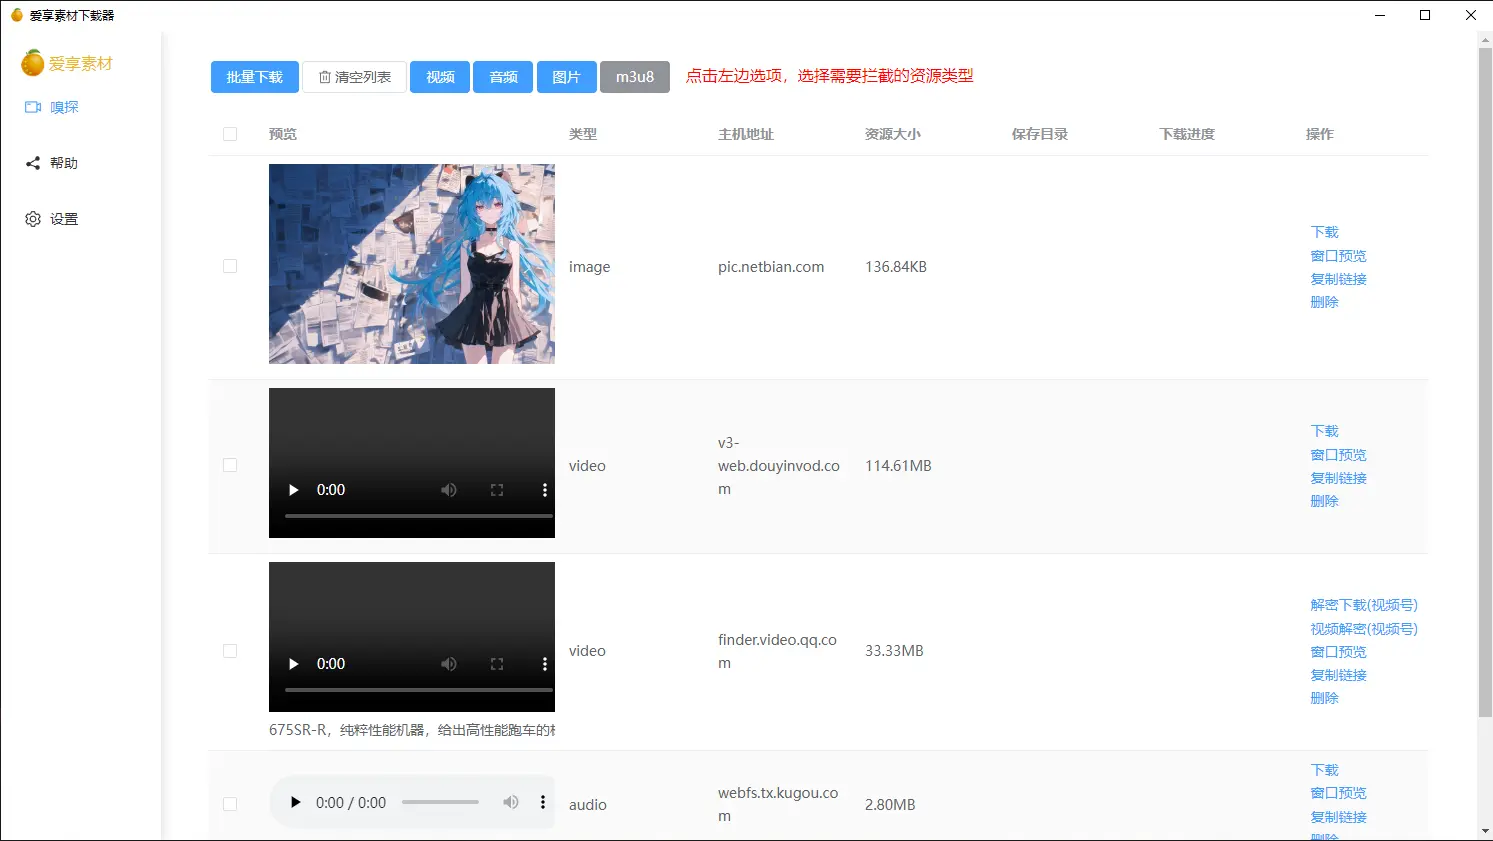
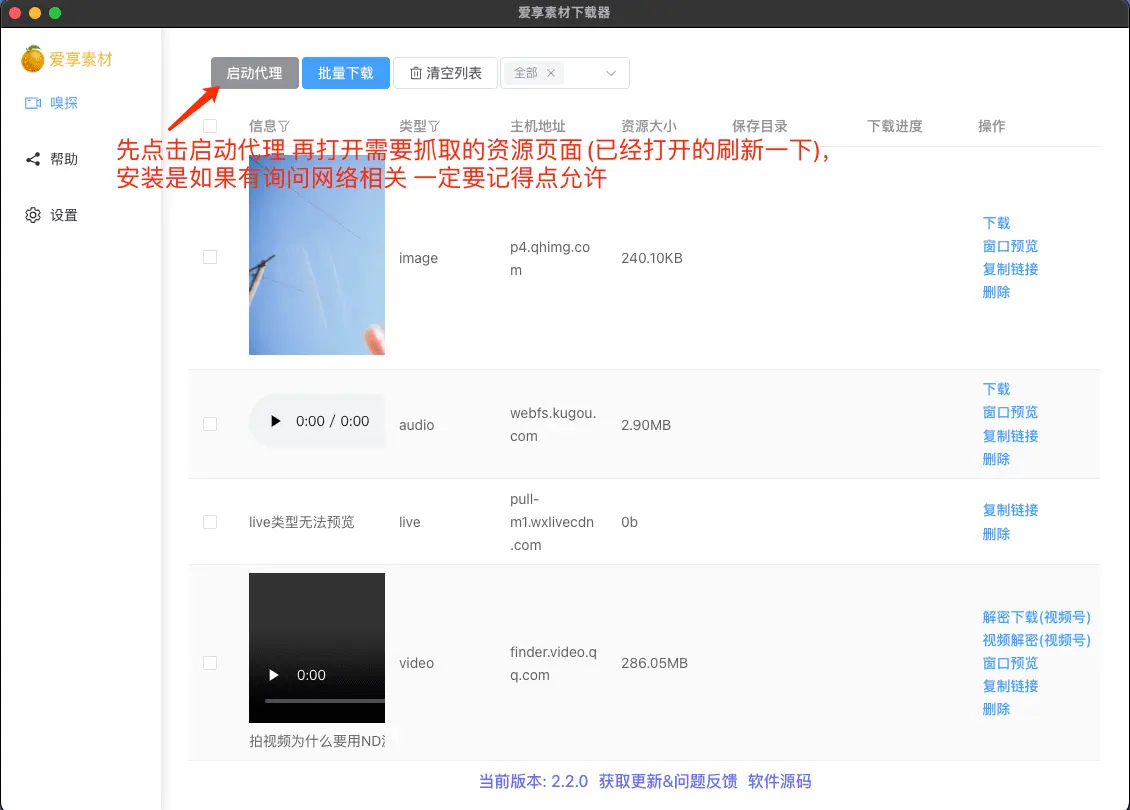
修改Md

diff --git a/README.md b/README.md
@@ -2,8 +2,8 @@
 ### 爱享素材下载器【[加入群聊](https://qm.qq.com/q/mfDMSpCxQ4)】
 🎯 基于 [electron-vite-vue](https://github.com/electron-vite/electron-vite-vue.git)  
 📦 操作简单、可获取不同类型的资源  
-🖥 支持Win10、Win11、Mac、Linux  
-🌐 支持视频、音频、图片、m3u8、直播流等常见网络资源拦截  
+🖥 支持Windows、Mac、Linux  
+🌐 支持视频、音频、图片、m3u8、直播流等常见网络资源  
 💪 支持微信视频号、小程序、抖音、快手、小红书、酷狗音乐、qq音乐等网络资源下载  
 👼 支持设置代理以获取特殊网络下的资源  
 
@@ -12,9 +12,9 @@
 🆕 [蓝奏云下载 密码:9vs5](https://wwjv.lanzoum.com/b04wgtfyb)
 
 ## 使用方法
-> 0. 安装一定要同意安装证书文件，安装一定要同意安装证书文件，安装一定要同意安装证书文件！
-> 1. 打开本软件
-> 2. 软件首页选择要获取的资源类型（默认选中的视频）
+> 0. 安装时一定要同意安装证书文件、使用时一定要允许网络访问
+> 1. 打开本软件 软件首页左上角点击 “启动代理”
+> 2. 软件首页选择要获取的资源类型（默认选中的全部）
 > 3. 打开要捕获的源， 如：视频号、网页、小程序等等
 > 4. 返回软件首页即可看到资源列表
 
@@ -22,18 +22,15 @@
 ![](public/show.webp)
 
 ## 常见问题
-m3u8预览和下载：
+m3u8: 预览和下载：
 > [下载](https://m3u8-down.gowas.cn/) [预览](https://m3u8play.com/)
 
-直播流 预览和录制：
-> [使用obs进行预览和录制]( https://obsproject.com/)
+直播流: 预览和录制：
+> [使用obs进行预览和录制 使用教程自行百度]( https://obsproject.com/)
 
-下载慢、大视频下载失败(最新版本以内置aria2下载器)
+下载慢、大视频下载失败(最新版本已内置aria2下载器)
 > 推荐使用如下工具加速下载，视频号可以下载完成后再到对应视频操作项选择 “视频解密(视频号)” 按钮
 >> [Neat Download Manager](https://www.neatdownloadmanager.com/index.php/en/)、[Motrix](https://motrix.app/download)等软件进行下载
-
-Win7无法使用
-> 软件不支持，也无计划支持
 
 打开本软件，无法正常拦截获取
 > 检查系统代理是否正确设置 代理地址：127.0.0.1 端口：8899
@@ -43,34 +40,14 @@ Win7无法使用
 
 打开本软件后无法上网
 > 手动删除安装标识锁文件，之后再打开软件会进行检查证书是否正确安装
->> MAC: /Users/你的用户名称/.res-downloader@putyy/res-downloader-installed.lock
+>> MAC: /Users/你的用户名称/.res-downloader@putyy/res-downloader-installed.lock  
+> 
 >> Win: C:\Users\Admin\.res-downloader@putyy/res-downloader-installed.lock
 
 其他问题  
 [github](https://github.com/putyy/res-downloader/issues)  、 [爱享论坛](https://s.gowas.cn/d/4089)  
 
-## 二次开发
-> ps： 打包慢的问题可以参考 https://www.putyy.com/articles/87
-```sh
-git clone https://github.com/putyy/res-downloader
-
-cd res-downloader
-
-yarn install
-
-yarn run dev
-
-# 打包mac
-yarn run build --universal --mac
-
-# 打包win
-yarn run build --win
-
-# 打包linux
-yarn run build --linux
-```
-
-## 实现&初衷
+## 实现 & 初衷
 通过代理网络抓包拦截响应，筛选出有用的资源， 同fiddler、charles等抓包软件、浏览器F12打开控制也能达到目的，只不过这些软件需要手动进行筛选，对于小白用户上手还是有点难度，本软件对部分资源做了特殊处理，更适合大众用户，所以就有了本项目。
 
 ## 免责声明
